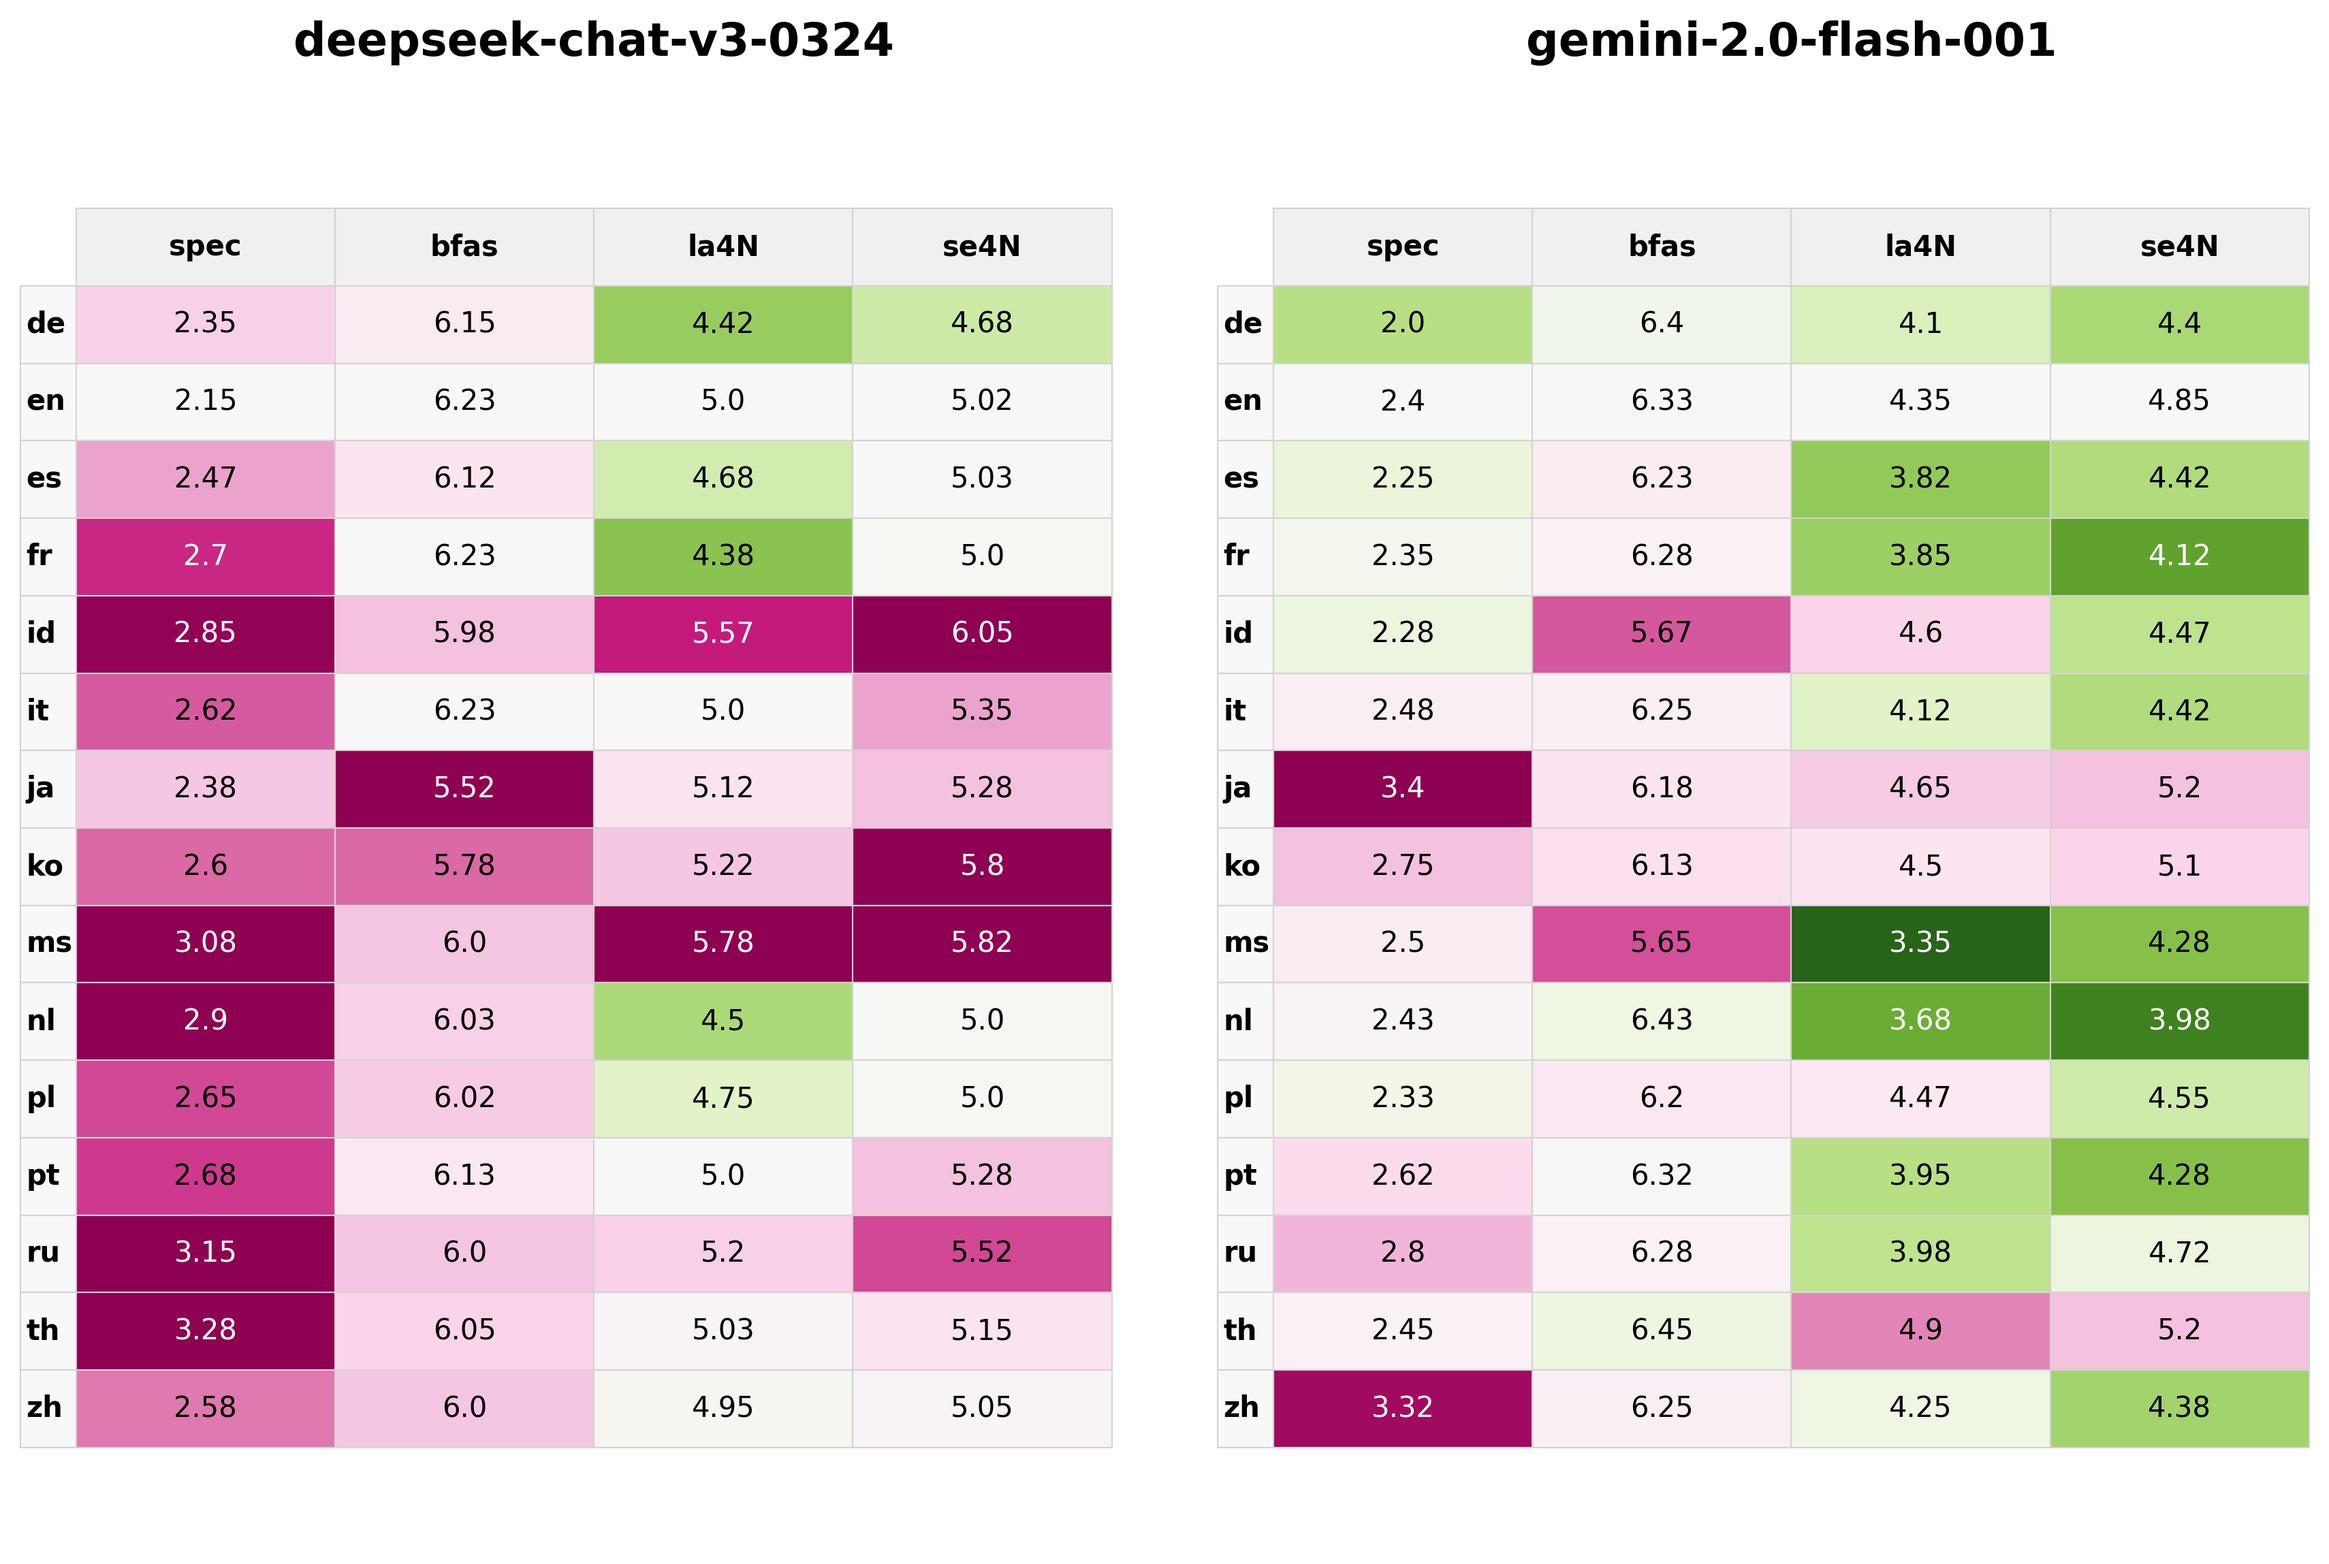
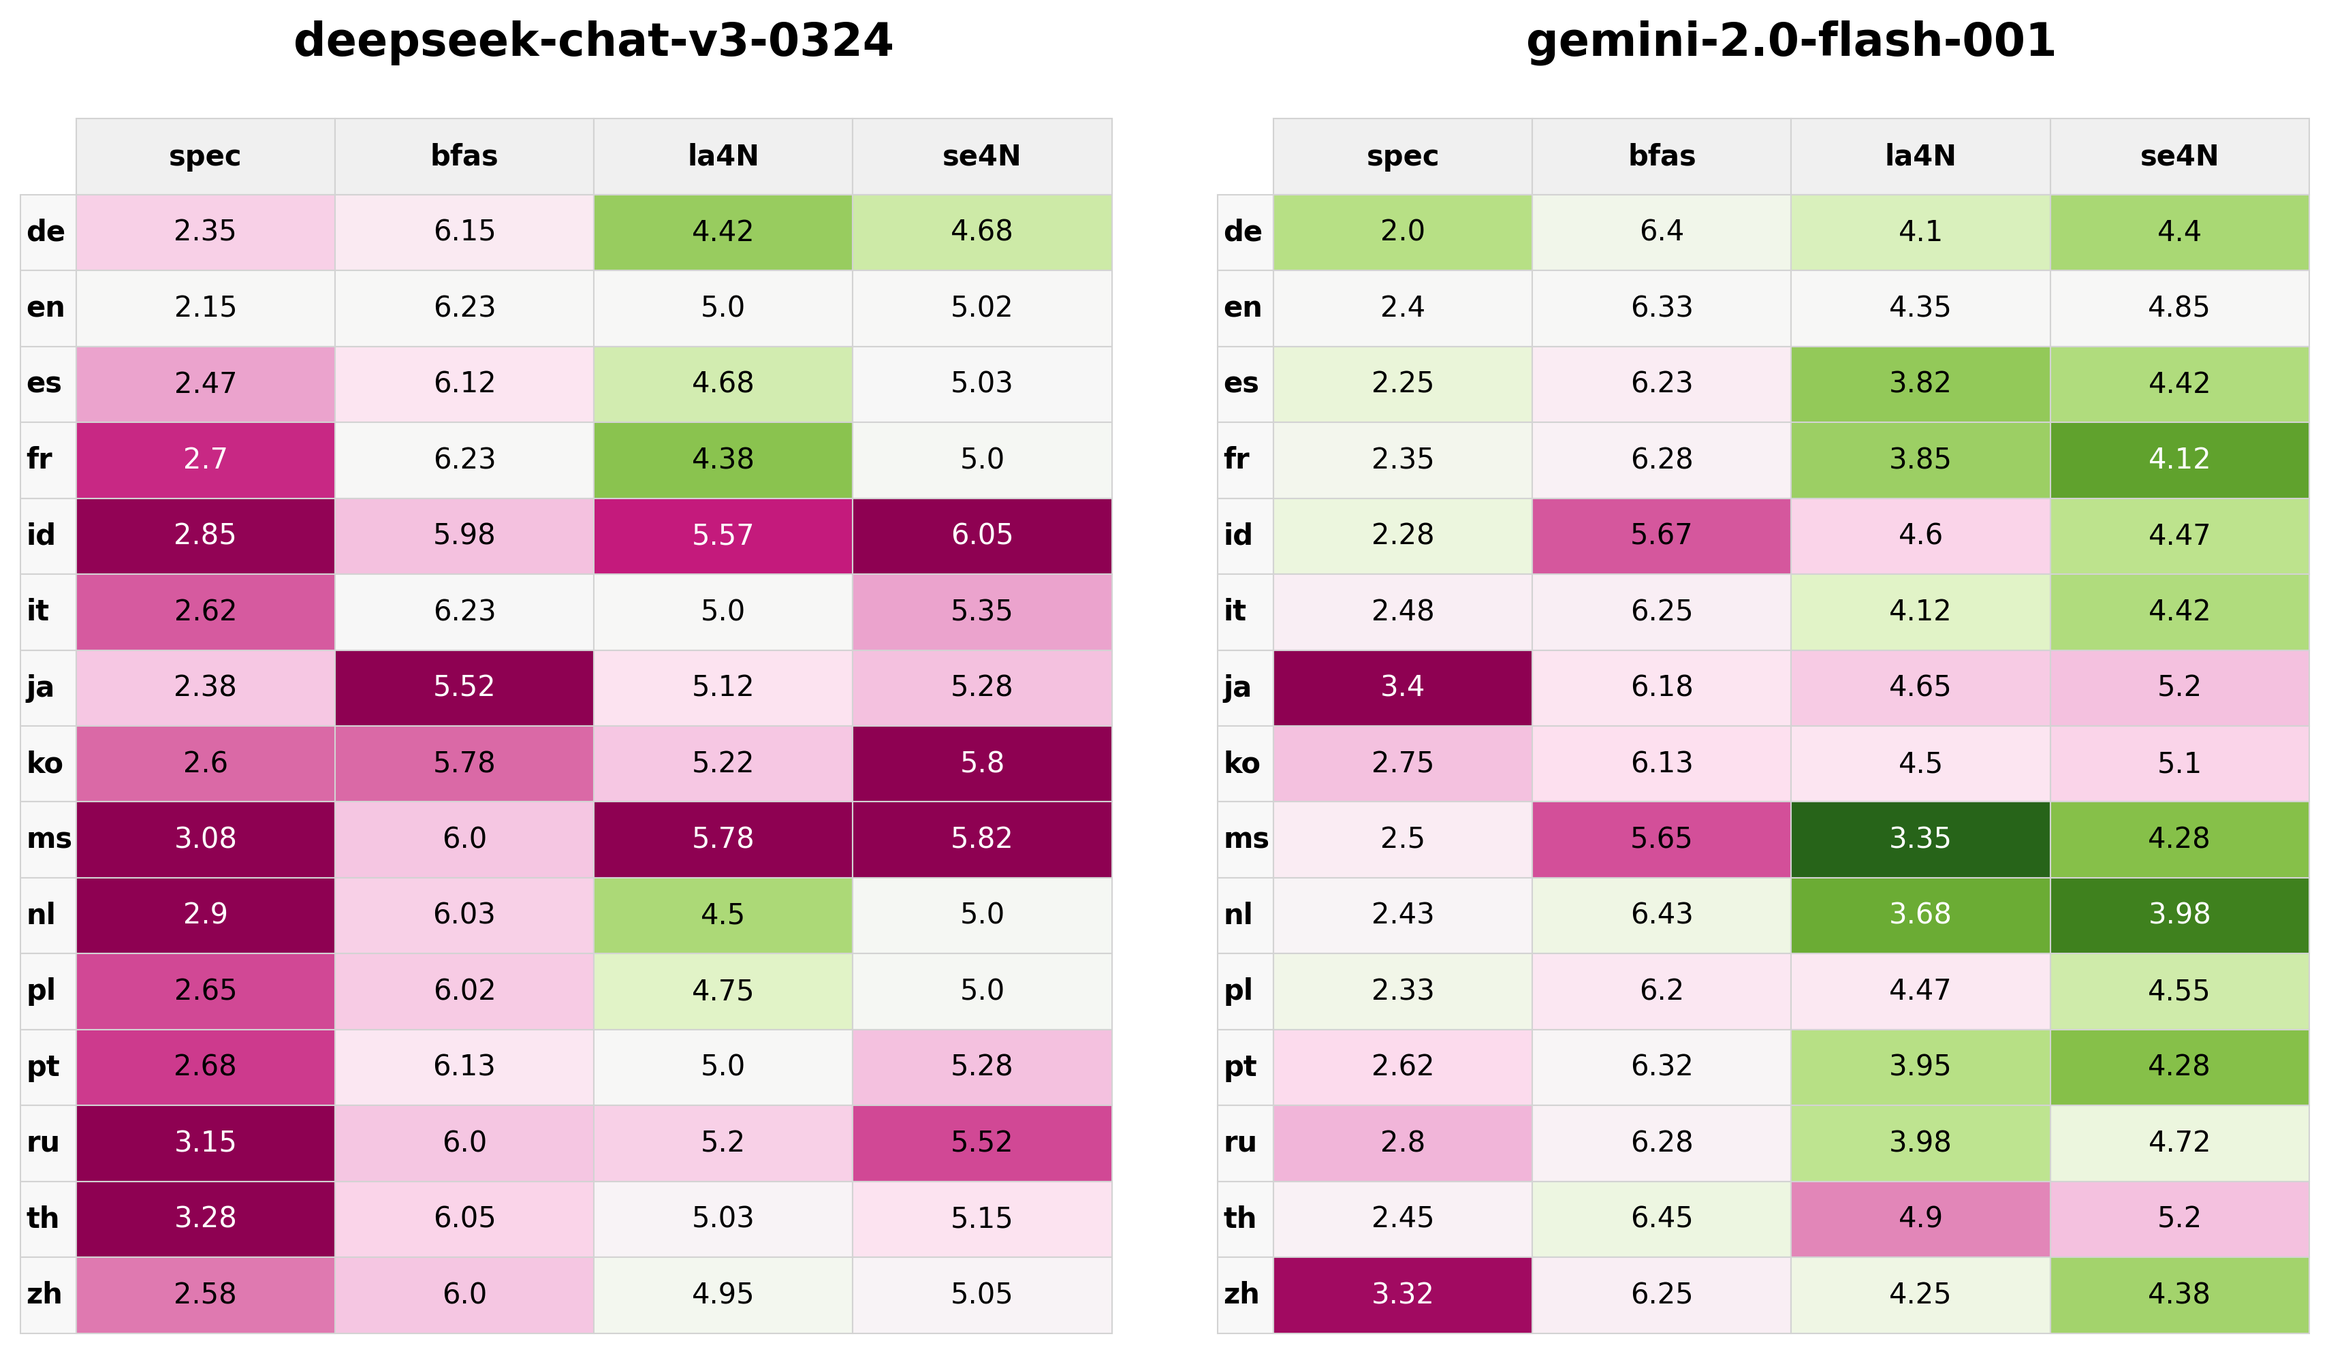
Fix table title spacing

diff --git a/scripts/analysis.py b/scripts/analysis.py
@@ -208,7 +208,7 @@ if __name__ == "__main__":
     models = languages.index.get_level_values(0).unique()
 
     # Create figure with subplots (one for each model) - more space
-    fig, axes = plt.subplots(1, len(models), figsize=(12, 8))
+    fig, axes = plt.subplots(1, len(models), figsize=(12, 7))
 
     # Loop over models and create tables
     for i, model in enumerate(models):
